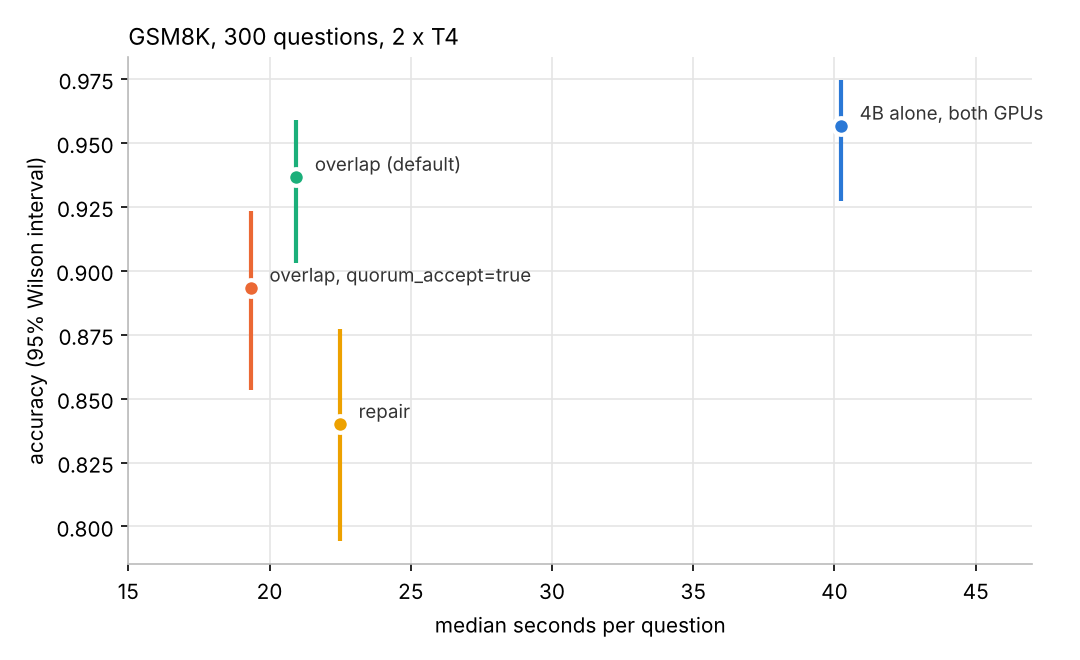
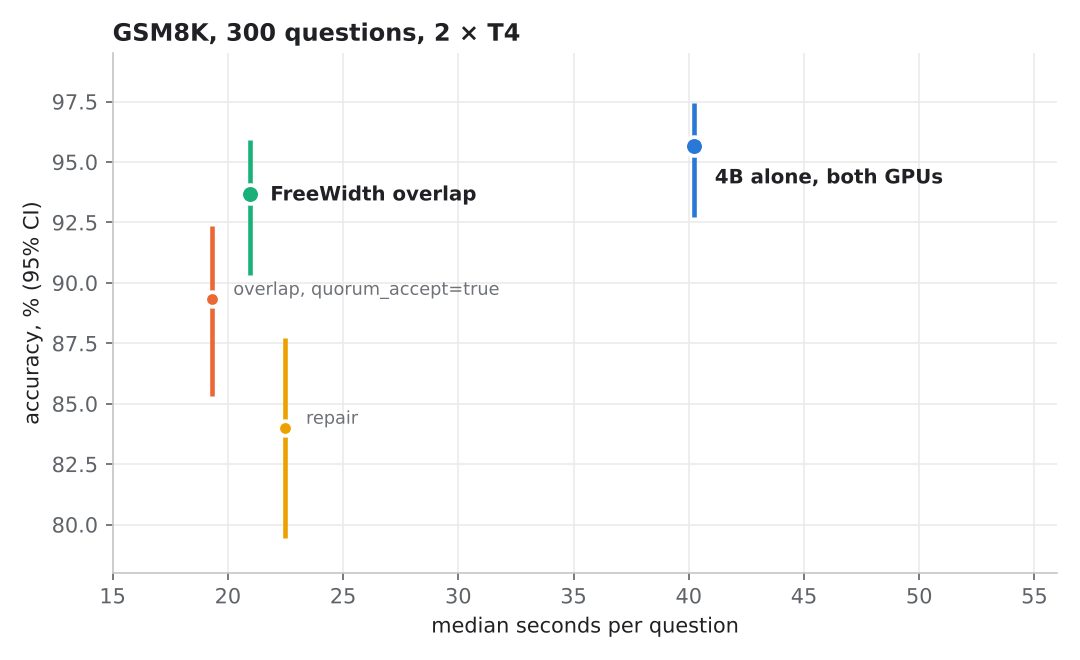
README: summary figure, headline numbers and overlap diagram (#10)
* README: summary figure, headline numbers and overlap diagram

- docs/figures/hero.png: free width on a T4 next to the GSM8K accuracy-latency result
- docs/figures/architecture.svg: one question under overlap, matching the controller's decision rules
- scripts/make_figures.py regenerates both result figures from committed rows and calibration fits
- version 0.8.1

* make_figures: build data paths with pathlib

diff --git a/scripts/make_figures.py b/scripts/make_figures.py
@@ -1,6 +1,8 @@
-"""Regenerate the README results figure from the committed per-question rows.
+"""Regenerate the README figures from committed data.
 
     python scripts/make_figures.py
+
+Writes docs/figures/hero.png (free width and headline result) and docs/figures/results_gsm8k.png.
 """
 from __future__ import annotations
 
@@ -12,45 +14,128 @@ import matplotlib
 
 matplotlib.use("Agg")
 import matplotlib.pyplot as plt  # noqa: E402
+from matplotlib.ticker import FixedLocator, NullFormatter, NullLocator  # noqa: E402
 
+from freewidth.costs import DeviceFit  # noqa: E402
 from freewidth.report import wilson  # noqa: E402
 
 ROOT = Path(__file__).resolve().parents[1]
-RUNS = [  # (rows file, policy in that file, label, colour)
-    ("results/t4_gsm8k_E1_2026-11-16/bench_rows.jsonl", "big_sc2", "4B alone, both GPUs", "#2a78d6"),
-    ("results/t4_gsm8k_H10/bench_rows.jsonl", "overlap", "overlap (default)", "#1baf7a"),
-    ("results/t4_gsm8k_E1_2026-11-16/bench_rows.jsonl", "overlap", "overlap, quorum_accept=true", "#eb6834"),
-    ("results/t4_gsm8k_E1_2026-11-16/bench_rows.jsonl", "repair", "repair", "#eda100"),
+BLUE, ORANGE, GREEN, AMBER, GREY, INK, MUTED = ("#2a78d6", "#eb6834", "#1baf7a", "#eda100",
+                                                "#9aa0a6", "#202124", "#5f6368")
+RESULTS = Path("results")
+CALIB = RESULTS / "t4_gsm8k_2026-11-15" / "calibration"
+E1 = RESULTS / "t4_gsm8k_E1_2026-11-16" / "bench_rows.jsonl"
+H10 = RESULTS / "t4_gsm8k_H10" / "bench_rows.jsonl"
+RUNS = [  # (rows file, policy, label, colour, emphasised)
+    (E1, "big_sc2", "4B alone, both GPUs", BLUE, True),
+    (H10, "overlap", "FreeWidth overlap", GREEN, True),
+    (E1, "overlap", "overlap, quorum_accept=true", ORANGE, False),
+    (E1, "repair", "repair", AMBER, False),
 ]
 
+plt.rcParams.update({
+    "font.family": "DejaVu Sans", "font.size": 10, "axes.edgecolor": "#c4c7c5",
+    "axes.labelcolor": INK, "xtick.color": MUTED, "ytick.color": MUTED,
+    "axes.titlecolor": INK, "axes.titleweight": "bold", "axes.titlesize": 11.5,
+})
 
-def main() -> None:
-    fig, ax = plt.subplots(figsize=(7.2, 4.4), dpi=150)
-    for path, policy, label, colour in RUNS:
-        rows = [json.loads(x) for x in (ROOT / path).read_text().splitlines() if x.strip()]
-        rows = [r for r in rows if r["policy"] == policy]
-        k = sum(bool(r["correct"]) for r in rows)
-        acc = k / len(rows)
-        lo, hi = wilson(k, len(rows))
-        med = st.median(r["seconds"] for r in rows)
-        ax.errorbar(med, acc, yerr=[[acc - lo], [hi - acc]], fmt="o", ms=8, color=colour, ecolor=colour,
-                    elinewidth=2, capsize=0, markeredgecolor="white", markeredgewidth=2, zorder=3)
-        ax.annotate(label, (med, acc), xytext=(9, 3), textcoords="offset points", fontsize=9, color="#333333")
-    ax.set_xlabel("median seconds per question")
-    ax.set_ylabel("accuracy (95% Wilson interval)")
-    ax.set_title("GSM8K, 300 questions, 2 x T4", fontsize=11, loc="left")
-    ax.set_xlim(15, 47)
-    ax.grid(color="#e5e5e5", linewidth=0.8)
+
+def _style(ax):
+    ax.grid(color="#ebebeb", linewidth=0.8)
     ax.set_axisbelow(True)
     for side in ("top", "right"):
         ax.spines[side].set_visible(False)
-    for side in ("left", "bottom"):
-        ax.spines[side].set_color("#bbbbbb")
+
+
+def _policy_point(path, policy):
+    rows = [json.loads(x) for x in (ROOT / path).read_text().splitlines() if x.strip()]
+    rows = [r for r in rows if r["policy"] == policy]
+    k = sum(bool(r["correct"]) for r in rows)
+    lo, hi = wilson(k, len(rows))
+    return k / len(rows), lo, hi, st.median(r["seconds"] for r in rows)
+
+
+def _free_width_panel(ax):
+    widths = [1, 2, 4, 8, 16, 32, 64]
+    ax.axhspan(0.0, 1.25, color=GREEN, alpha=0.08, lw=0)
+    ax.text(1.08, 0.86, "within 1.25× of one sample", color=GREEN, fontsize=8.5, ha="left")
+    ax.plot(widths, widths, ls="--", color=GREY, lw=1.4)
+    ax.text(1.62, 2.9, "if cost grew with FLOPs", color=MUTED, fontsize=8.5, rotation=63,
+            ha="center", va="center")
+    for model, label, colour, dy in (("q35-0.8b", "Qwen3.5-0.8B", GREEN, 1.6), ("q35-4b", "Qwen3.5-4B", BLUE, 0.55)):
+        f = json.loads((ROOT / CALIB / model / "device_fit.json").read_text())
+        fit, L, P = DeviceFit.from_dict(f), f["typical_gen_len"], f["typical_prompt_len"]
+        ys = [fit.seconds(w, L, P) / fit.seconds(1, L, P) for w in widths]
+        ax.plot(widths, ys, "o-", color=colour, lw=2.2, ms=6, markeredgecolor="white", markeredgewidth=1.5,
+                label=label, zorder=3)
+        fw = f["free_width"]
+        y = fit.seconds(fw, L, P) / fit.seconds(1, L, P)
+        ax.plot([fw], [y], "o", ms=12, mfc="none", mec=colour, mew=2, zorder=4)
+        ax.annotate(f"free width {fw}", (fw, y), xytext=(fw * dy, y + (0.75 if dy < 1 else 0.38)), fontsize=9,
+                    color=colour, fontweight="bold", ha="center",
+                    arrowprops=dict(arrowstyle="-", color=colour, lw=1))
+    ax.set_xscale("log", base=2)
+    ax.xaxis.set_major_locator(FixedLocator(widths))
+    ax.set_xticklabels([str(w) for w in widths])
+    ax.xaxis.set_minor_locator(NullLocator())
+    ax.xaxis.set_minor_formatter(NullFormatter())
+    ax.yaxis.set_major_locator(FixedLocator([1, 2, 3, 4, 5]))
+    ax.set_yticklabels(["1×", "2×", "3×", "4×", "5×"])
+    ax.set_ylim(0.8, 5.0)
+    ax.set_xlabel("parallel samples per question")
+    ax.set_ylabel("wall time relative to one sample")
+    ax.text(64, 4.75, "measured on a T4, fitted cost model", color=MUTED, fontsize=8, ha="right")
+    ax.set_title("Parallel samples are near-free, up to the free width", loc="left")
+    ax.legend(frameon=False, loc="upper left", fontsize=9)
+    _style(ax)
+
+
+def _results_panel(ax, emphasise=True):
+    for path, policy, label, colour, main in RUNS:
+        acc, lo, hi, med = _policy_point(path, policy)
+        alpha = 1.0 if (main or not emphasise) else 0.45
+        ax.errorbar(med, acc * 100, yerr=[[100 * (acc - lo)], [100 * (hi - acc)]], fmt="o",
+                    ms=9 if main else 7, color=colour, ecolor=colour, elinewidth=2.2, capsize=0, alpha=alpha,
+                    markeredgecolor="white", markeredgewidth=1.8, zorder=3)
+        right = med > 35
+        ax.annotate(label, (med, acc * 100), xytext=(10, -18) if right else (10, -3 if main else 2),
+                    textcoords="offset points", ha="left",
+                    fontsize=9.5 if main else 8.5, color=INK if main else MUTED,
+                    fontweight="bold" if main else "normal", alpha=1.0 if main else 0.9)
+    if emphasise:
+        ax.annotate("", xy=(21.6, 94.6), xytext=(39.4, 95.6),
+                    arrowprops=dict(arrowstyle="->", color=INK, lw=1.2, shrinkA=6, shrinkB=6))
+        ax.text(30.5, 96.3, "1.9× lower median latency\n44% less energy, −2.0 pts (n.s.)",
+                ha="center", fontsize=9, color=INK)
+    ax.set_xlim(15, 56)
+    ax.set_ylim(78, 99.5)
+    ax.set_xlabel("median seconds per question")
+    ax.set_ylabel("accuracy, % (95% CI)")
+    ax.set_title("GSM8K, 300 questions, 2 × T4", loc="left")
+    _style(ax)
+
+
+def hero():
+    fig, (a, b) = plt.subplots(1, 2, figsize=(12.4, 4.6), dpi=170, gridspec_kw={"wspace": 0.28})
+    _free_width_panel(a)
+    _results_panel(b)
+    fig.subplots_adjust(left=0.06, right=0.985, top=0.9, bottom=0.13)
+    out = ROOT / "docs/figures/hero.png"
+    fig.savefig(out, facecolor="white")
+    plt.close(fig)
+    return out
+
+
+def results():
+    fig, ax = plt.subplots(figsize=(7.2, 4.4), dpi=150)
+    _results_panel(ax, emphasise=False)
     fig.tight_layout()
     out = ROOT / "docs/figures/results_gsm8k.png"
-    fig.savefig(out)
-    print(out)
+    fig.savefig(out, facecolor="white")
+    plt.close(fig)
+    return out
 
 
 if __name__ == "__main__":
-    main()
+    print(hero())
+    print(results())

diff --git a/freewidth/__init__.py b/freewidth/__init__.py
@@ -1,3 +1,3 @@
 """FreeWidth: hardware-conditional test-time compute scaling."""
 
-__version__ = "0.8.0"
+__version__ = "0.8.1"

diff --git a/README.md b/README.md
@@ -1,33 +1,43 @@
 <a id="top"></a>
 
+<div align="center">
+
 # FreeWidth
 
-**Hardware-aware test-time compute for small language models.**
+**Hardware-aware test-time compute for small language models.**<br>
+Measure how many parallel samples your GPU gives you for free, then spend them well.
 
 [![ci](https://github.com/Tejascodz/freewidth/actions/workflows/ci.yml/badge.svg)](https://github.com/Tejascodz/freewidth/actions/workflows/ci.yml)
 [![security](https://github.com/Tejascodz/freewidth/actions/workflows/security.yml/badge.svg)](https://github.com/Tejascodz/freewidth/actions/workflows/security.yml)
 ![python](https://img.shields.io/badge/python-3.10%E2%80%933.12-blue)
 ![license](https://img.shields.io/badge/license-MIT-green)
-
-On a single-user GPU, generating several answers in parallel costs almost the same wall time as generating one, up to a limit set by the model and the device. FreeWidth measures that limit, the **free width**, and builds a small-to-large model ladder around it. The ladder has three parts:
-
-- **Wide sampling:** the small model samples answers in parallel, sized to the measured width.
-- **Early stopping:** the batch stops as soon as the finished answers agree.
-- **Live checking:** a larger model on a second GPU checks each answer as it finishes. It accepts the answer, vetoes it, or takes over and writes its own.
-
-It ships as an OpenAI-compatible server, a calibration tool, a live benchmark and a statistics reporter. Every claim below comes from pre-registered experiments on free Kaggle GPUs.
-
-| | accuracy | median latency | energy per question |
-|---|---|---|---|
-| Qwen3.5-4B alone, on both GPUs | 95.7% | 40.2 s | 5.7 kJ |
-| **FreeWidth `overlap`** (0.8B → 4B) | **93.7%** | **20.9 s** | **3.2 kJ** |
-
-*GSM8K, 300 questions, 2 × NVIDIA T4.*
-- The 2.0-point accuracy difference is not statistically significant (Holm-adjusted p = 0.21; 95% CI −4.7 to +0.7). It is not proof of equivalence.
-- The two rows were measured in separate sessions; a same-session confirmation is planned.
-- The 90th-percentile latency is higher for `overlap` (74.6 s vs 62.0 s).
+![api](https://img.shields.io/badge/API-OpenAI--compatible-informational)
 
 [Quickstart](#quickstart) · [How it works](#how-it-works) · [Results](#results) · [Positioning](#positioning) · [Limitations](#limitations) · [Reproduce](#reproducing-the-results)
+
+<img src="docs/figures/hero.png" width="100%" alt="Left: wall time versus number of parallel samples on a T4 for Qwen3.5-0.8B and Qwen3.5-4B, with free widths 16 and 4 marked. Right: accuracy versus median latency on GSM8K; the FreeWidth overlap policy reaches 93.7% at 20.9 s against 95.7% at 40.2 s for the 4B model alone.">
+
+</div>
+
+<table>
+<tr>
+<td align="center" width="33%"><h2>1.9×</h2>lower median latency<br><sub>20.9 s vs 40.2 s per question</sub></td>
+<td align="center" width="33%"><h2>44%</h2>less energy per question<br><sub>3.2 kJ vs 5.7 kJ</sub></td>
+<td align="center" width="33%"><h2>−2.0 pts</h2>accuracy, not significant<br><sub>93.7% vs 95.7%, Holm p = 0.21</sub></td>
+</tr>
+</table>
+
+<sub>FreeWidth `overlap` (Qwen3.5-0.8B with Qwen3.5-4B checking) against Qwen3.5-4B alone on both GPUs. GSM8K, 300 questions, 2 × NVIDIA T4. The accuracy gap is not significant, which is not proof of equivalence (95% CI −4.7 to +0.7 points). The two runs were measured in separate sessions; a same-session confirmation is planned. The 90th-percentile latency is worse for `overlap` (74.6 s vs 62.0 s).</sub>
+
+## Overview
+
+On a single-user GPU, small-batch decoding is limited mostly by memory bandwidth and kernel launches, not by arithmetic. Generating several answers in parallel therefore costs almost the same wall time as generating one, up to a limit set by the model and the device. FreeWidth measures that limit, the **free width**, and builds a small-to-large model ladder around it:
+
+- **Wide sampling.** The small model samples a wave of answers in parallel, sized to the measured free width.
+- **Early stopping.** The wave stops as soon as the finished answers settle, and unfinished rows are cut.
+- **Live checking.** A larger model on a second GPU scores each answer with one forward pass as it finishes. It accepts the answer, vetoes it, or starts writing its own.
+
+It ships as an OpenAI-compatible server, a calibration tool, a live benchmark and a statistics reporter, with 1-GPU and 2-GPU configurations. Every result in this README comes from pre-registered experiments on free Kaggle GPUs, with the raw per-question rows committed.
 
 ---
 
@@ -96,20 +106,9 @@ The same free widths were measured in every calibration session.
 
 ### The `overlap` ladder
 
-```mermaid
-flowchart LR
-    Q["Request"] --> W["Small model, GPU 0<br/>wave of free width"]
-    W -- "each finished answer" --> V["Large model, GPU 1<br/>one-pass check: P(Yes)"]
-    V -- "P(Yes) >= 0.95 and 2+ votes" --> A["Accept"]
-    V -- "P(Yes) < 0.2" --> X["Veto"]
-    W -- "majority forms" --> U{"Large model<br/>sure?"}
-    U -- "no" --> B
-    W -- "disagreement, stragglers" --> B["Large model writes<br/>its own answer (GPU 1)"]
-    X --> B
-    B --> F["Answer"]
-```
+<p align="center"><img src="docs/figures/architecture.svg" width="100%" alt="Swimlane diagram: on GPU 0 the small model decodes a wave of samples; each finished answer is scored by the large model on GPU 1 with one prefill pass; two matching answers with P(Yes) of at least 0.95 are accepted and the rest of the wave is cut; low scores veto an answer; uncertain cases escalate to the large model decoding its own answers."></p>
 
-*Figure 2.* The small model's sampling and the large model's checking run at the same time on separate GPUs.
+*Figure 2.* One question under `overlap`. The small model's sampling and the large model's checking run at the same time on separate GPUs. In this example the second answer is vetoed, the third matches the first, and the wave stops before the remaining rows finish.
 
 | rule | condition | action |
 |---|---|---|

diff --git a/CHANGELOG.md b/CHANGELOG.md
@@ -2,6 +2,9 @@
 
 All notable changes to this project. Format based on [Keep a Changelog](https://keepachangelog.com/en/1.1.0/).
 
+## 0.8.1
+- README: summary figure, headline numbers and an overview diagram of `overlap`; `scripts/make_figures.py` regenerates all result figures.
+
 ## 0.8.0
 - `overlap` now escalates a small-model majority the verifier is unsure about, instead of accepting it (`quorum_accept: false` by default). The old behaviour is available as `quorum_accept: true`.
 - The README describes the current system and results only; `scripts/make_figures.py` regenerates the results figure.
